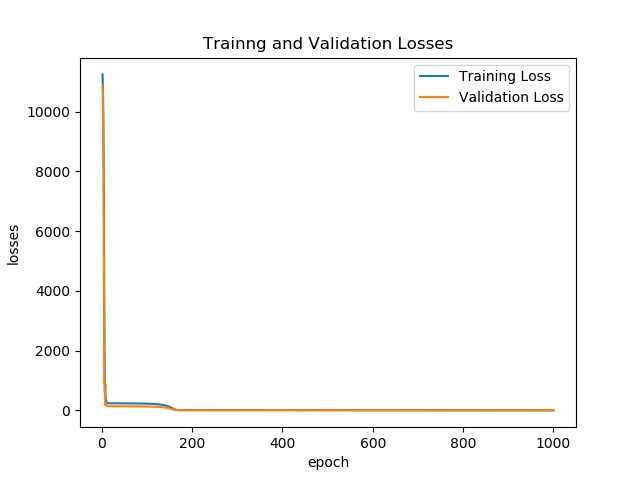
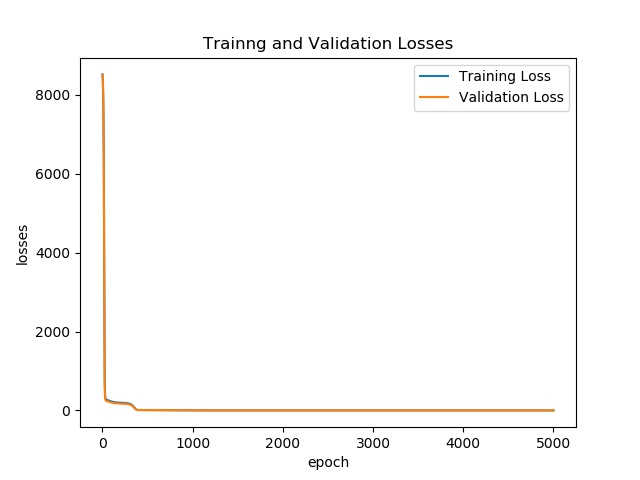
tune random initialization problem

diff --git a/TCN/prey_pred_model/prey_pred_data.py b/TCN/prey_pred_model/prey_pred_data.py
@@ -15,13 +15,13 @@ def dfunc (y, t):
     return [f0, f1]
 
 def prey_pred_data(examples, seq_length):
-    N = 2000  # Number of data points
+    N = 3000  # Number of data points
     if N < (examples+seq_length+1):
         print('No of examples should be smaller than 2000-seq_length-1')
         return
     tmin = 0.0     # starting t value
     tmax = 200.0   # final t value
-    yinit = [47,56]      # initial value of x
+    yinit = [80,50]      # initial value of x
     t  = np.linspace(tmin, tmax, N)   # time grid
     ysol = odeint(dfunc, yinit, t)
     stack_data  = torch.zeros(examples, 2, seq_length+1)
@@ -35,12 +35,12 @@ def prey_pred_data(examples, seq_length):
     return X,Y
 
 def prey_pred_data_init(examples, seq_length, yinit):
-    N = 2000  # Number of data points
+    N = 3000  # Number of data points
     if N < (examples+seq_length+1):
-        print('No of examples should be smaller than 2000-seq_length-1')
+        print('No of examples should be smaller than 3000-seq_length-1')
         return
     tmin = 0.0     # starting t value
-    tmax = 200.0   # final t value
+    tmax = 800.0   # final t value
     t  = np.linspace(tmin, tmax, N)   # time grid
     ysol = odeint(dfunc, yinit, t)
     stack_data  = torch.zeros(examples, 2, seq_length+1)
@@ -54,7 +54,7 @@ def prey_pred_data_init(examples, seq_length, yinit):
     return stack_data
 
 def prey_pred_data_randinit(examples, seq_length):
-    batch_no = 10
+    batch_no = 100
     batch_samples = m.floor(examples / batch_no)
     full_data = torch.zeros((examples, 2, seq_length+1))
     a = 50
@@ -67,6 +67,7 @@ def prey_pred_data_randinit(examples, seq_length):
         yinit = [a + (b-a)*torch.rand(1) , a + (b-a)*torch.rand(1)]
         batch_data = prey_pred_data_init( (examples%batch_no) , seq_length, yinit)
         full_data[ (batch_no*(i+1)): ] = batch_data
+    full_data = full_data[torch.randperm(examples)]
     X = full_data[:,:,:-1]
     Y = full_data[:,:,-1]
     return X,Y

diff --git a/TCN/prey_pred_model/prey_pred_sequence_randInit.py b/TCN/prey_pred_model/prey_pred_sequence_randInit.py
@@ -19,7 +19,7 @@ parser.add_argument('--dropout', type=float, default=0.0,
                     help='dropout applied to layers (default: 0.0)')
 parser.add_argument('--clip', type=float, default=-1,
                     help='gradient clip, -1 means no clip (default: -1)')
-parser.add_argument('--epochs', type=int, default=1000,
+parser.add_argument('--epochs', type=int, default=6000,
                     help='upper epoch limit (default: 100)')
 parser.add_argument('--ksize', type=int, default=7,
                     help='kernel size (default: 7)')
@@ -29,7 +29,7 @@ parser.add_argument('--seq_len', type=int, default=10,
                     help='sequence length (default: 10)')
 parser.add_argument('--log-interval', type=int, default=100, metavar='N',
                     help='report interval (default: 100')
-parser.add_argument('--lr', type=float, default=1e-3,
+parser.add_argument('--lr', type=float, default=2e-4,
                     help='initial learning rate (default: 4e-3)')
 parser.add_argument('--optim', type=str, default='Adam',
                     help='optimizer to use (default: Adam)')
@@ -139,5 +139,6 @@ plt.plot(range(total_examples),data[1][:,0].cpu().numpy())
 plt.plot(range(total_examples),data[1][:,1].cpu().numpy())
 plt.plot(range(training_examples,total_examples),output[:,0].cpu().detach().numpy(), '--')
 plt.plot(range(training_examples,total_examples),output[:,1].cpu().detach().numpy(), '--')
+plt.grid(True)
 plt.legend(['True prey population', 'True predator population', 'Predicted prey population', 'Predicted predator population'] ,loc='center left')
 plt.savefig('rand_init/prey_pred_prediction_vizualization_randInit.jpg')
